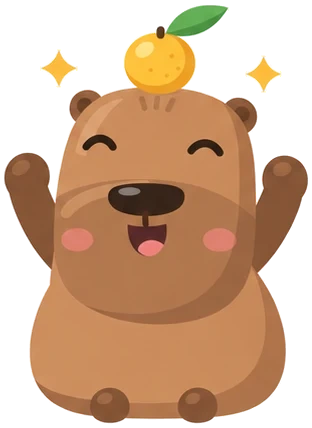
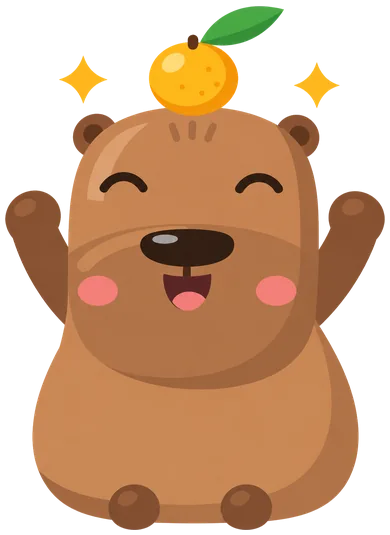
Chai: swap reading, sipping, cheering to the 2d-v2 masters
Cut-out by colour un-mixing (no cream halo), fitted to the previous ink box so the
footprint and feet baseline do not move; shadow stays in CSS. 58,010 B total
(was 61,476). Reproducible with scripts/export-chai-2d.py.

Claude-Session: https://claude.ai/code/session_01Wn1tcRYjBrm68QxmGYwD9K

diff --git a/kettle/src/art/PaintedChai.tsx b/kettle/src/art/PaintedChai.tsx
@@ -3,7 +3,9 @@
  *
  * The approved art direction (art-src/chai/chai-sheet-approved.webp) used as painted raster poses —
  * never redrawn as vector, so the soft shading, proportions, muzzle and yuzu stay exactly as approved.
- * Masters (PNG) live in art-src/chai; the app ships transparent WebP (≈15–21 KB each).
+ * Masters (PNG) live in art-src/chai; the app ships transparent WebP (≈15–21 KB each). reading, sipping and cheering
+ * come from the 2d-v2 masters (art-src/chai/2d-v2, cut by scripts/export-chai-2d.py) at 1.25 px per sheet px; their
+ * w/h below are the logical layout size, unchanged, so every place keeps its footprint and baseline.
  *
  * All poses come from one sheet at one scale, so a single scale factor keeps them the same size
  * relative to each other (cheering is shorter because the pose sits lower). Below ~44 px a full pose
@@ -24,7 +26,7 @@ import s from './painted.module.css';
 
 export type PaintedPose = 'reading' | 'sipping' | 'cheering' | 'concerned' | 'happy' | 'stretch' | 'look' | 'sleep';
 
-/** Native pixel size of each pose (each has a 4 px transparent margin). */
+/** Logical size of each pose in sheet px (each has a 4 px transparent margin). reading/sipping/cheering files are 1.25x that. */
 export const PAINTED: Record<PaintedPose, { src: string; w: number; h: number }> = {
   reading: { src: reading, w: 311, h: 487 },
   sipping: { src: sipping, w: 302, h: 491 },

diff --git a/kettle/scripts/export-chai-2d.py b/kettle/scripts/export-chai-2d.py
@@ -1,0 +1,161 @@
+#!/usr/bin/env python3
+"""Cut out and export the three 2D Chai poses (reading, sipping, cheering) from the v2 masters.
+
+Build-time tool, not an app dependency. Needs Pillow (with WebP), numpy and scipy:
+    python3 -m venv /tmp/c2venv && /tmp/c2venv/bin/pip install pillow numpy scipy
+    /tmp/c2venv/bin/python kettle/scripts/export-chai-2d.py [--out DIR] [--report FILE]
+
+Input : kettle/art-src/chai/2d-v2/chai-{reading,sipping,cheering}.png (992x1586 RGB, cream ground + soft ground shadow).
+Output: kettle/src/art/chai/chai-{pose}.webp (transparent, tight crop with a 4 sheet-px margin, same logical
+        size as the art it replaces, so the display footprint and the feet baseline do not move).
+
+Cut-out (no halo):
+  1. The background (cream, darkened by the ground shadow) is a single hue line: colour = cream * k.
+     Pixels on that line that connect to the image border are background (this also removes the shadow).
+  2. A 3 px band around the background is the anti-aliased rim. For each band pixel the local background B is the
+     nearest background pixel and the foreground F the nearest interior pixel; alpha is the projection of
+     (C - B) on (F - B). The rim keeps the colour F (never cream mixed in), alpha carries the edge.
+  3. Resize is done on premultiplied colour, so nothing bleeds in from the (transparent) background.
+The ground shadow is NOT baked into the art. The app draws it in CSS (Stage contact shadow), so it follows the theme.
+"""
+import argparse, io, json, os
+import numpy as np
+from PIL import Image
+from scipy import ndimage as ndi
+
+HERE = os.path.dirname(os.path.abspath(__file__))
+ROOT = os.path.dirname(HERE)  # kettle/
+SRC = os.path.join(ROOT, 'art-src', 'chai', '2d-v2')
+OUT = os.path.join(ROOT, 'src', 'art', 'chai')
+
+# Logical (CSS-layout) size of each pose in sheet px, as consumed by src/art/PaintedChai.tsx (PAINTED): unchanged.
+LOGICAL = {'reading': (311, 487), 'sipping': (302, 491), 'cheering': (312, 428)}
+# Ink box (alpha > 8, x0, y0, x1, y1, sheet px) of the art that these files replace. The new art is fitted to exactly
+# this box, so the display footprint, the centre and the feet baseline stay where they were (preserve list #2).
+OLD_INK = {'reading': (5, 4, 306, 483), 'sipping': (4, 5, 298, 487), 'cheering': (4, 5, 308, 424)}
+DENSITY = 1.25      # shipped pixels per logical sheet px (display need at the 1.6 px Stage cap on a 2x screen is 1.19)
+QUALITY = 82        # WebP colour quality
+ALPHA_QUALITY = 80  # alpha: max error 1/255 at this setting, 70 already shows 9/255 steps on the rim
+CREAM = np.array([254.0, 249.0, 240.0])
+CREAM_DIR = CREAM / np.linalg.norm(CREAM)
+
+
+def cut(rgb):
+    """rgb: HxWx3 uint8 -> (HxWx4 float RGBA straight alpha, bg mask)."""
+    c = rgb.astype(np.float64)
+    k = c @ CREAM_DIR                       # position along the cream hue line
+    perp = np.linalg.norm(c - k[..., None] * CREAM_DIR, axis=-1)
+    cand = (perp < 9.0) & (k > 0.78 * np.linalg.norm(CREAM)) & (k < 1.02 * np.linalg.norm(CREAM))
+    lab, n = ndi.label(cand)
+    border = np.unique(np.concatenate([lab[0], lab[-1], lab[:, 0], lab[:, -1]]))
+    border = border[border > 0]
+    bg = np.isin(lab, border)
+    # rim band: up to 3 px from the background
+    near = ndi.binary_dilation(bg, iterations=3)
+    band = near & ~bg
+    core = ~near
+    # nearest background / interior colour for every pixel
+    _, ib = ndi.distance_transform_edt(~bg, return_indices=True)
+    _, ic = ndi.distance_transform_edt(~core, return_indices=True)
+    B = c[ib[0], ib[1]]
+    F = c[ic[0], ic[1]]
+    d = F - B
+    den = np.maximum((d * d).sum(-1), 1.0)
+    a = np.clip(((c - B) * d).sum(-1) / den, 0, 1)
+    alpha = np.where(bg, 0.0, np.where(band, a, 1.0))
+    # tiny alpha is noise: drop it; near-full alpha snaps to 1
+    alpha = np.where(alpha < 0.03, 0.0, alpha)
+    alpha = np.where(alpha > 0.97, 1.0, alpha)
+    out = np.where(band[..., None], F, c)
+    return np.dstack([out, alpha * 255.0]), bg
+
+
+def bbox_of(alpha, thr=8):
+    ys, xs = np.where(alpha > thr)
+    return int(xs.min()), int(ys.min()), int(xs.max()) + 1, int(ys.max()) + 1
+
+
+def build(pose, k=DENSITY):
+    """Cut the master and place it in the logical box (scaled by k). Returns (RGBA PIL image, info dict)."""
+    rgb = np.asarray(Image.open(os.path.join(SRC, f'chai-{pose}.png')).convert('RGB'))
+    rgba, _ = cut(rgb)
+    x0, y0, x1, y1 = bbox_of(rgba[..., 3])
+    crop = Image.fromarray(rgba[y0:y1, x0:x1].round().astype(np.uint8), 'RGBA')
+    lw, lh = LOGICAL[pose]
+    ox0, oy0, ox1, oy1 = OLD_INK[pose]
+    W, H = round(lw * k), round(lh * k)
+    X0, Y0, X1, Y1 = (round(v * k) for v in (ox0, oy0, ox1, oy1))
+    # Pillow resizes RGBA on premultiplied colour, so the clear background cannot bleed into the rim.
+    ink = crop.resize((X1 - X0, Y1 - Y0), Image.LANCZOS)
+    canvas = Image.new('RGBA', (W, H), (0, 0, 0, 0))
+    canvas.paste(ink, (X0, Y0))
+    sx, sy = (ox1 - ox0) / crop.width, (oy1 - oy0) / crop.height
+    return canvas, dict(master_ink=(x0, y0, x1, y1), sx=sx, sy=sy, stretch_pct=(sx / sy - 1) * 100, size=(W, H))
+
+
+def encode(img):
+    buf = io.BytesIO()
+    img.save(buf, 'WEBP', quality=QUALITY, alpha_quality=ALPHA_QUALITY, method=6)
+    return buf.getvalue()
+
+
+def halo_report(webp_bytes, bg=(0x22, 0x18, 0x29)):
+    """Rim check on the dark theme. For every edge pixel (0 < alpha < 255) compare its colour with the nearest
+    opaque interior colour (the character's own colour there). Cream contamination would show as a pull towards
+    (254,249,240)."""
+    a = np.asarray(Image.open(io.BytesIO(webp_bytes)).convert('RGBA')).astype(np.float64)
+    al = a[..., 3]
+    edge = (al > 0) & (al < 255)
+    solid = al == 255
+    _, idx = ndi.distance_transform_edt(~solid, return_indices=True)
+    inner = a[idx[0], idx[1], :3]
+    d = np.linalg.norm(a[..., :3] - inner, axis=-1)[edge]
+    over = (a[..., :3] * (al / 255)[..., None] + np.array(bg) * (1 - al / 255)[..., None])
+    ideal = (inner * (al / 255)[..., None] + np.array(bg) * (1 - al / 255)[..., None])
+    dc = np.linalg.norm(over - ideal, axis=-1)[edge]
+    # lightness of the rim against the interior it belongs to (positive = lighter = cream-ward)
+    lum = lambda c: c @ np.array([0.299, 0.587, 0.114])
+    dl = (lum(a[..., :3]) - lum(inner))[edge]
+    cream = np.array([254.0, 249.0, 240.0])
+    towards = (((a[..., :3] - inner) * (cream - inner)).sum(-1) / np.maximum(((cream - inner) ** 2).sum(-1), 1))[edge]
+    return dict(edge_px=int(edge.sum()), mean_rim_vs_inner_rgb=float(d.mean()), p99_rim_vs_inner_rgb=float(np.percentile(d, 99)),
+                mean_composite_dark_vs_ideal=float(dc.mean()), mean_lightness_shift=float(dl.mean()),
+                mean_pull_to_cream=float(towards.mean()))
+
+
+def naive_control(pose):
+    """Control: the same alpha as the shipped cut, but the rim colours left as the master has them (cream mixed in,
+    no un-mixing). Same crop, same halo metric; nothing shipped. It shows the halo that the un-mixing removes."""
+    rgb = np.asarray(Image.open(os.path.join(SRC, f'chai-{pose}.png')).convert('RGB'))
+    rgba, _ = cut(rgb)
+    raw = np.dstack([rgb.astype(np.float64), rgba[..., 3]])
+    img = Image.fromarray(raw.round().astype(np.uint8), 'RGBA')
+    b = io.BytesIO(); img.save(b, 'PNG')
+    return halo_report(b.getvalue())
+
+
+def main():
+    ap = argparse.ArgumentParser()
+    ap.add_argument('--out', default=OUT)
+    ap.add_argument('--report', help='write a JSON report here')
+    ap.add_argument('--dry', action='store_true', help='do not write the webp files')
+    args = ap.parse_args()
+    rep, total = {}, 0
+    for pose in LOGICAL:
+        img, info = build(pose)
+        data = encode(img)
+        if not args.dry:
+            with open(os.path.join(args.out, f'chai-{pose}.webp'), 'wb') as f:
+                f.write(data)
+        total += len(data)
+        rep[pose] = dict(info, bytes=len(data), halo=halo_report(data), halo_naive_control=naive_control(pose))
+        print(f"{pose}: {img.size[0]}x{img.size[1]} px, {len(data)} B, stretch {info['stretch_pct']:+.2f}%, halo {rep[pose]['halo']['mean_pull_to_cream']:+.4f} (naive {rep[pose]['halo_naive_control']['mean_pull_to_cream']:+.4f})")
+    rep['total_bytes'] = total
+    print('total', total, 'budget 61476')
+    if args.report:
+        with open(args.report, 'w') as f:
+            json.dump(rep, f, indent=2, default=float)
+
+
+if __name__ == '__main__':
+    main()
